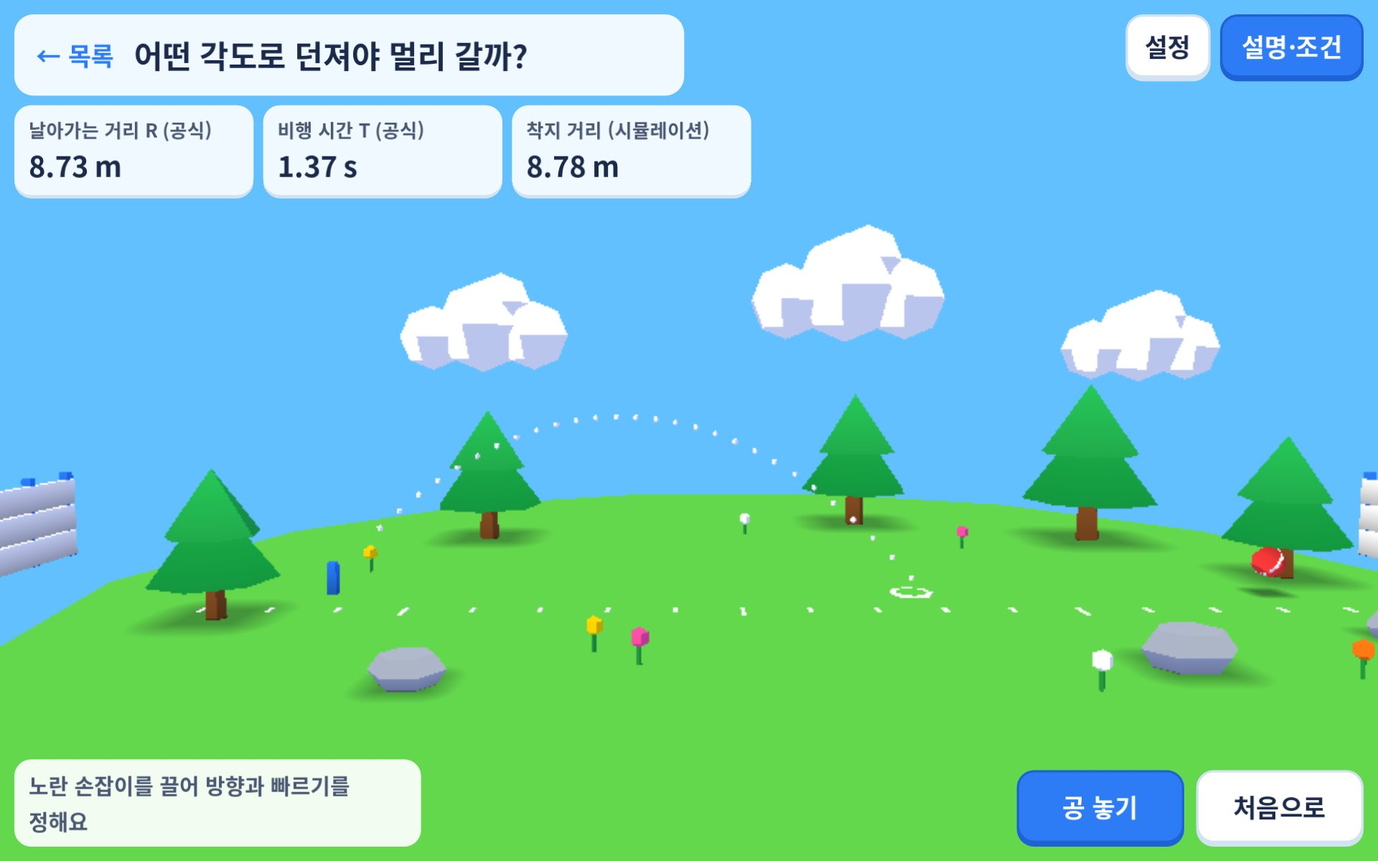
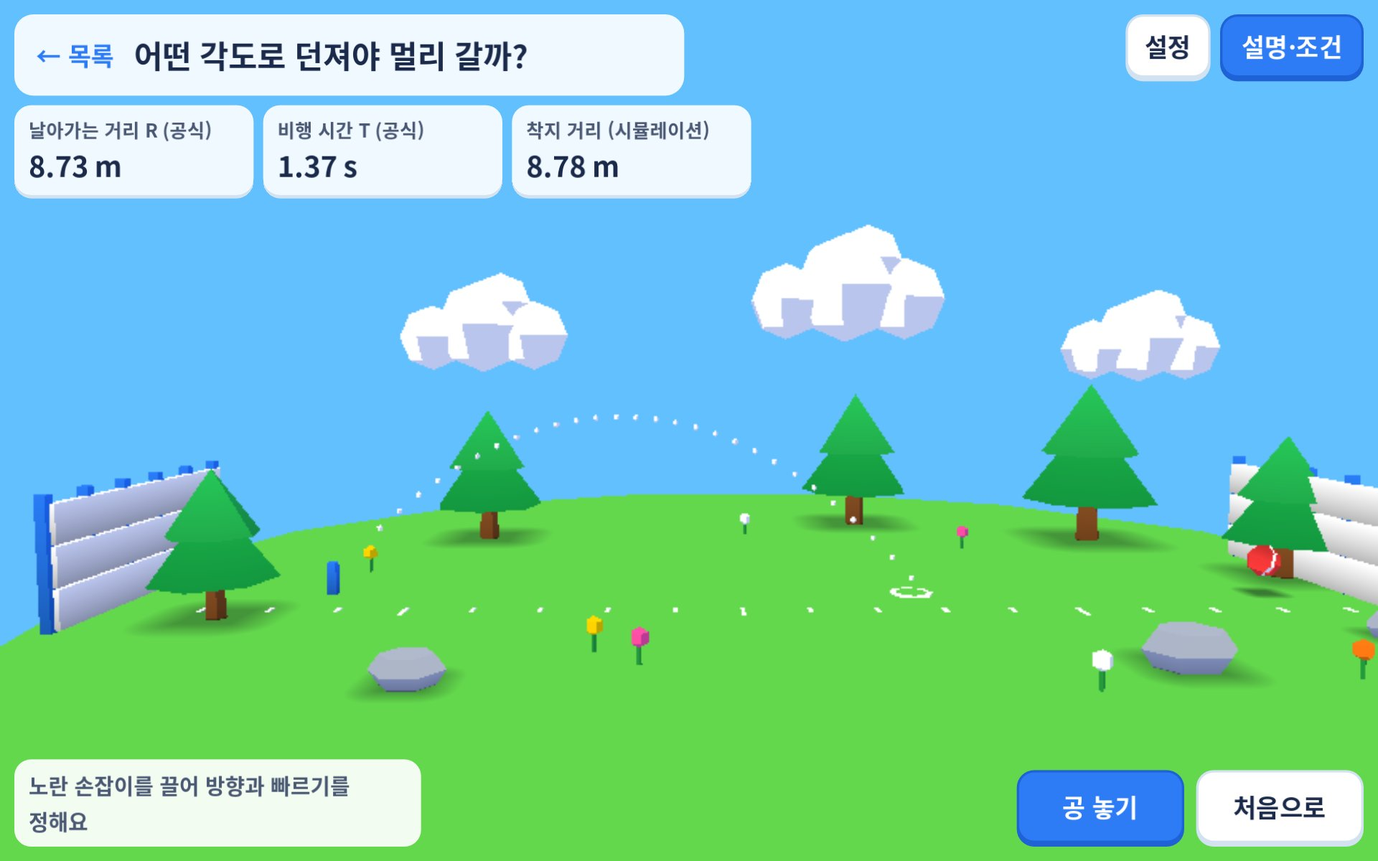
docs: 울타리 새 자리·높이 1.8 m 근거, 재촬영, 시점 확인 (Phase 1 Task 4f)

Changed region(s): [[0.0, 0.5242, 0.1562, 0.74], [0.875, 0.5242, 1.0, 0.7092]]

diff --git a/apps/lab3d/README.md b/apps/lab3d/README.md
@@ -81,7 +81,7 @@ apps/lab3d/
 | 도르래 (`pulley`) | 같은 실험(`pulley`) | 공식 모델 구동(`kinematic_model`, `PulleyLabDriver`) | 짐을 받치는 줄(1·2·4줄, 웹 버튼. 잡은 채 바꾸면 처음으로와 같이 다시 시작), 짐 질량(1–20 kg, 기본 20 kg) | 빨간 손잡이를 아래로 당김(5 cm 눈금, 한 번 최대 2.6 m. 손잡이 이동 = 당긴 줄, 짐은 그 1/n): 놓으면 멈추개가 짐을 잡고 손잡이는 위로(손 바꿔 당기기), 짐 최고 2.4 m | 상태, n, 짐 무게, 필요한 힘 mg/n, 내가 당기는 힘, 당긴 줄 d당김, 올라간 높이 d당김/n, 1 m에 당기는 줄 n m, 내가 한 일 F·d당김, 위치 에너지 mg·d상승 | 줄 수에 따른 필요한 힘(당기는 힘·필요한 힘, 잡은 동안 10초 창) | 4e |
 | 빗면 마찰 (`incline-friction`) | 3D 전용(`app_labs`) | 접촉 힘 보정 | 빗면 각도, 표면 재질 | 상자를 빗면 위 출발 위치로 끌기 | 2a 그대로 | 놓은 뒤 이동 거리 | 2a·2b |
 
-- 균일장 실험은 `UniformFieldLab`(`experiments/uniform_field/`)를 잇는다. 중력 선택지는 공의 `gravity_scale`(= g / 프로젝트 중력 9.81)로 엔진 장을 바꾸고, 보정기에는 64비트 g를 준다. 공은 `FormulaBody` + `UniformFieldCorrector`(놓는 첫 스텝 도약 출발, 엔진 접촉 보고로 엔진 착지 기록), 반지름 0.25 m, 감쇠 0. 공은 자유롭게 돌고(Task 4f) 엔진 마찰·반발은 0이다. 날아가는 동안은 엔진이 움직이고(돌지 않음), 공식 착지 시각부터는 64비트 공 모델(`RollingContact`: 균일한 구 I = 2/5 m r²)이 튕김(e v, 1 m/s 미만이면 멈춤), 튕김의 쿨롱 마찰 충격(μ 0.6), 미끄러짐 → v = ωr 구름, 구름 저항(μ_r 0.05, a = μ_r g) → 정지를 닫힌 식으로 진행하고 엔진 공을 매 스텝 그 자리·회전에 둔다(바닥에 들어가지 않음). 던지기 섬 양끝(x 12.0 / −12.5 m 면)의 울타리(높이 1.5 m, 시각 메시만)에 굴러온 공은 모델이 e v로 되튕기고 면 마찰로 살짝 뜨게 한 뒤 섬 위에서 멈춘다(기본·가장 먼 던지기 시험). 날아가던 공이 울타리를 꼭대기보다 낮게 지나가면(달의 긴 던지기) 맞은 공식 시각에 되튀어 섬에 남고 상태는 "울타리에 맞음"(공식 거리·비행 시간 그대로, 표시 시간은 맞은 시각에서 멈춤, 시뮬레이션 착지 거리 "—"), 위로 넘으면 기존 "섬 밖으로 날아감"이다. 공에는 흰 띠가 있어 구르는 것이 보인다(메시는 바디의 자식). 측정 착지 스텝은 공식 접촉 뒤 첫 샘플이다. 규칙·측정: [공식 보정 4절 Task 4f](docs/formula-correction.md#실험-구현-task-4f-공-회전구름). 착지는 바닥에 닿을 때만이다(출발 접촉은 놓은 뒤 첫 스텝 보고, 공끼리는 충돌하지 않는 층). 공식 착지 시간이 0인 공(장 안에서 바닥에 놓음, 바닥에서 수평 던지기)은 놓는 순간 착지다(공식 시계 0 = 착지 시간). 자유 낙하는 한 공의 낙하선 위·아래에 다른 공을 놓을 수 없다. 규칙: [공식 보정 4절 실험 구현](docs/formula-correction.md#실험-구현-task-4a-균일장).
+- 균일장 실험은 `UniformFieldLab`(`experiments/uniform_field/`)를 잇는다. 중력 선택지는 공의 `gravity_scale`(= g / 프로젝트 중력 9.81)로 엔진 장을 바꾸고, 보정기에는 64비트 g를 준다. 공은 `FormulaBody` + `UniformFieldCorrector`(놓는 첫 스텝 도약 출발, 엔진 접촉 보고로 엔진 착지 기록), 반지름 0.25 m, 감쇠 0. 공은 자유롭게 돌고(Task 4f) 엔진 마찰·반발은 0이다. 날아가는 동안은 엔진이 움직이고(돌지 않음), 공식 착지 시각부터는 64비트 공 모델(`RollingContact`: 균일한 구 I = 2/5 m r²)이 튕김(e v, 1 m/s 미만이면 멈춤), 튕김의 쿨롱 마찰 충격(μ 0.6), 미끄러짐 → v = ωr 구름, 구름 저항(μ_r 0.05, a = μ_r g) → 정지를 닫힌 식으로 진행하고 엔진 공을 매 스텝 그 자리·회전에 둔다(바닥에 들어가지 않음). 던지기 섬 양끝(x 9.5 / −9.3 m 면, 섬 윗면 안)의 울타리(높이 1.8 m, 폭 6 / 4.4 m, 시각 메시만)에 굴러온 공은 모델이 e v로 되튕기고 면 마찰로 살짝 뜨게 한 뒤 섬 위에서 멈춘다(기본·가장 먼 던지기 시험). 날아가던 공이 울타리를 꼭대기보다 낮게 지나가면(달의 긴 던지기) 맞은 공식 시각에 되튀어 섬에 남고 상태는 "울타리에 맞음"(공식 거리·비행 시간 그대로, 표시 시간은 맞은 시각에서 멈춤, 시뮬레이션 착지 거리 "—"), 위로 넘으면 기존 "섬 밖으로 날아감"이다. 공에는 흰 띠가 있어 구르는 것이 보인다(메시는 바디의 자식). 측정 착지 스텝은 공식 접촉 뒤 첫 샘플이다. 규칙·측정: [공식 보정 4절 Task 4f](docs/formula-correction.md#실험-구현-task-4f-공-회전구름). 착지는 바닥에 닿을 때만이다(출발 접촉은 놓은 뒤 첫 스텝 보고, 공끼리는 충돌하지 않는 층). 공식 착지 시간이 0인 공(장 안에서 바닥에 놓음, 바닥에서 수평 던지기)은 놓는 순간 착지다(공식 시계 0 = 착지 시간). 자유 낙하는 한 공의 낙하선 위·아래에 다른 공을 놓을 수 없다. 규칙: [공식 보정 4절 실험 구현](docs/formula-correction.md#실험-구현-task-4a-균일장).
 - 화면 수치는 모두 `PhysicsLaws`다: 놓은 뒤 시계(고정 스텝)를 공식 착지 시간(`landing_time`)에서 멈추고 그 시각의 위치·속도·에너지를 보여 준다. "착지됨" 상태도 공식이 정한다: 시계가 공식 착지 시간에 닿았거나(반올림 여유 1e-9 s) 그 전에 엔진이 착지를 보고하면 착지이고, 그때부터 공식 착지 값(t = T, h = 0)을 보여 준다. 엔진 값은 "시뮬레이션"이 붙은 착지 시각·착지 거리와 그래프 점뿐이다. 측정 착지는 엔진 착지 보고의 스텝이고, 보고가 없으면(바닥 몇 mm 위 낙하, 바닥에서 짧은 튐처럼 출발 바닥 접촉이 끝나지 않는 경우) 공식 착지 시각에 가장 가까운 스텝의 엔진 값(그 스텝 시각, 그 스텝의 엔진 x)이다. 그래프 시뮬레이션 점은 공식 착지 시각까지만 더한다.
 - 무중력: 자유 낙하는 공이 제자리에 떠 있고("무중력: 떠 있어요", 바닥까지 "닿지 않아요"), 던지기는 곧게 날아가 섬(x 12.5 m, 높이 30 m)을 벗어나면 멈추고 숨긴다("섬 밖으로 날아감"). 달처럼 멀리 가는 던지기도 같다(공식 거리·시간은 그대로 표시).
 - 놓기 연출: 대기 중인 공 아래 노란 받침판이 놓을 때 아래로 젖혀지며 사라지고 공이 늘어난다(`stretch`). 처음으로·조건 변경 때 공이 다시 나타난다(`pop`). 착지는 ArtJuice 자동 반응(납작·먼지·카메라)이다.
@@ -283,7 +283,7 @@ npm test                           # 루트: TS 테스트 + apps/lab3d/tools/{in
 | 충돌 실험 (Task 4c) | `tools/collision-lab-vectors.test.ts` → `tests/collision_lab_vectors.json`, `tests/collision_lab_checks.gd`(`run_tests.gd`가 부름) | 웹 `PhysicsSimulation`(world.ts 충돌)에 충돌 프리셋 감쇠·정지·벽 규칙(웹 소스의 상수를 읽어 확인)을 60 Hz로 적용한 7가지(웹 시작, 같은 질량 e = 1·고무, 점토·금속, 나무, 1 m/s 미만, 따라잡기): 모델 위치·속도·운동량(6스텝마다)·첫 충돌 값·충돌 횟수 = TS(1e-9, 측정 7e-15). 엔진 공 중심 = TS(≤ 1e-4 m, 측정 2.4e-7), 매 스텝 엔진 = 모델(위치 3.8e-7 m, 스텝 속도 2.8e-5 m/s), 패널 = TS, 운동량 보존·에너지 비증가, 같은 질량 e = 1 속도 교환, 재질별 e·1 m/s 미만 e = 0. 조건 변경, 아트는 보이는 것만(공은 엔진에서 아무것도 안 닿음, 바디는 돌지 않음), 3D 노드 16개 이하(14), 처음 연 화면의 첫 충돌(TS 94스텝), 부호 있는 운동량 그래프, 리뷰 반영(부호 그래프 눈금 +max/0/−max, 벽에 붙은 B의 미세 재접촉은 연출 반복 없음, 10초 넘는 29초 실행에서 엔진 위치·스텝 속도·운동량 = 공식, 느린 공 화살표 최소 길이, 화면 열기·상태 복원 때 재시작 1회, 최대 bump에서 공 바닥이 레일 아래로 안 내려감, 화살표 캐시 윗면 색, 손잡이 공용 생성), 실제 입력 경로(공 끌기 0.5 m, 손잡이 0.5 m/s·미리보기·슬라이더 동기화, 그 뒤 충돌 = 공식, 구르는 중 집으면 멈춤), 측정 데모. 돌연변이 7종(감쇠 끔, 밀어내기 끔, 충돌 결과 0.1% 변경, 벽 반발 무시, 구동 한 스텝 늦음, 손잡이 눈금 0.25 m/s, 엔진 접촉 켬) 실패 확인 |
 | 용수철·부력·궤도 실험 (Task 4d) | `tools/{spring,buoyancy,orbit}-lab-vectors.test.ts` → `tests/*_lab_vectors.json`, `tests/{spring,buoyancy,orbit}_lab_checks.gd`(`run_tests.gd`가 부름) | TS 코어(`AnchoredSpringLaw`, `BuoyancyRegionLaw`, `PointGravityField`, `OrbitChallenge`)로 만든 사례(용수철 6·부력 7·궤도 8)와 모델·엔진 바디·패널을 스텝 단위로 대조(모델 ≤ 4e-15 상대, 엔진 ≤ 5e-7 m, 스텝 속도 ≤ 5.2e-5 m/s, 60초 실행 포함), 용수철 주기 2π√(m/k)·에너지 보존, 부력 ρ/ρ물 깊이·바닥·중성, 궤도 케플러 주기·에너지·탈출 속력·충돌 위치, 조작·끌기 뒤 출발 |
 | 진자·지렛대·도르래 실험 (Task 4e) | `tools/{constraints,rotation,pulley}-lab-vectors.test.ts` → `tests/*_lab_vectors.json`, `tests/{constraints,rotation,pulley}_lab_checks.gd`(`run_tests.gd`가 부름) | TS 코어(`PendulumModel`, `LeverChallenge`, `PulleyAdvantageChallenge`, `torque`, `centripetalForce`, `work`)로 만든 사례(진자 7·지렛대 6 × 누름 51·도르래 5)와 모델·엔진 바디·패널을 스텝 단위로 대조(모델 ≤ 7e-14 상대, 엔진 ≤ 2.4e-7 m·막대 1.1e-7 rad, 진자 스텝 속도 2.9e-5 m/s, 60초 실행 포함). 엔진 바디에서: 진자 길이 일정·소진폭 주기 2π√(L/g)·대진폭 주기·에너지 보존과 e^(−bt) 감쇠, 지렛대가 기우는 첫 누름 = F₁r₁ ≥ F₂r₂, 도르래 줄 길이 일정·당김 = n × 상승·F·d = mgh. 처음 연 화면의 첫 동작, 실제 입력 경로(원 위 끌기, 손잡이 누르기·당기기, 짐·받침점 끌기와 막힘, 손 바꿔 당기기·취소), 측정 데모. 돌연변이 17종 실패 확인 |
-| 공 회전·튕김·구름 (Task 4f) | `tests/ball_spin_checks.gd`(`run_tests.gd`가 부름), `rolling_speed` parity는 `formula_vectors.json` | 시험 안의 독립 오라클(튕김 사슬·쿨롱 충격·미끄러짐·구름 저항·정지 닫힌 식)과 엔진 공을 매 스텝 대조: 던지기 8가지 위치 2.1e-5 m·회전각 3.3e-6 rad·바닥 아래 0, 충돌 시각·속도·정지 시각 1e-9, 자유 낙하 3가지(최고점 e²h, 튕김 시각) 6.5e-6 m, 착지 스텝 = ⌈T/dt⌉·착지 반응 1회. 비행 중 ω 0(주어진 ω₀ 일정), 메시 = 바디(흰 띠), 자유 낙하 무회전·무이동, 충돌 메시 회전 = 이동/r, 울타리: 굴러온 공의 충돌 시각·속도·되튐·뜀 = 닫힌 식, 기본·가장 먼 던지기가 섬 위 정지, 날아가다 맞는 공(맞는 시각·속도 = 닫힌 식, 그때까지 비행 = 공식, 패널, 달 스캔 통과 0), 울타리 없을 때 정지 자리 보고, 공·라벨·그래프 색 일치, 받침판 흰색·회색. 돌연변이 16종 실패 확인 |
+| 공 회전·튕김·구름 (Task 4f) | `tests/ball_spin_checks.gd`(`run_tests.gd`가 부름), `rolling_speed` parity는 `formula_vectors.json` | 시험 안의 독립 오라클(튕김 사슬·쿨롱 충격·미끄러짐·구름 저항·정지 닫힌 식)과 엔진 공을 매 스텝 대조: 던지기 8가지 위치 2.1e-5 m·회전각 3.3e-6 rad·바닥 아래 0, 충돌 시각·속도·정지 시각 1e-9, 자유 낙하 3가지(최고점 e²h, 튕김 시각) 6.5e-6 m, 착지 스텝 = ⌈T/dt⌉·착지 반응 1회. 비행 중 ω 0(주어진 ω₀ 일정), 메시 = 바디(흰 띠), 자유 낙하 무회전·무이동, 충돌 메시 회전 = 이동/r, 울타리: 굴러온 공의 충돌 시각·속도·되튐·뜀 = 닫힌 식, 기본·가장 먼 던지기가 섬 위 정지, 날아가다 맞는 공(맞는 시각·속도 = 닫힌 식, 그때까지 비행 = 공식, 패널, 달 스캔 통과 0), 울타리 없을 때 정지 자리 보고, 공·라벨·그래프 색 일치, 받침판 흰색·회색. 돌연변이 18종 실패 확인, 울타리 꼭짓점이 섬 윗면 안 |
 | 새 출발 위치의 표시 수치 | `tools/incline-vectors.test.ts` → `tests/incline_vectors.json` `runs`, `manipulation_checks.gd` | 재질·각도·출발 위치 4가지(1–6 m)에서 s(t) ±1%, 표시 `이동 거리`가 출발점에서 빗면 끝까지 거리에서 멈춤, 공식 곡선이 그 거리에서 끝남, 상자가 빗면을 떠나는 시각이 TS 공식 √(2L/a)와 3 step 안 |
 
 - TS 공식을 바꾸면 vitest가 먼저 깨진다. `UPDATE_INCLINE_VECTORS=1 UPDATE_FORMULA_VECTORS=1 UPDATE_UNIFORM_VECTORS=1 UPDATE_FRICTION_VECTORS=1 UPDATE_COLLISION_VECTORS=1 UPDATE_SPRING_VECTORS=1 UPDATE_BUOYANCY_VECTORS=1 UPDATE_ORBIT_VECTORS=1 UPDATE_CONSTRAINTS_VECTORS=1 UPDATE_ROTATION_VECTORS=1 UPDATE_PULLEY_VECTORS=1 npx vitest run apps/lab3d`로 벡터를 다시 만든 뒤 Godot 테스트로 GDScript 쪽 불일치를 확인한다.

diff --git a/apps/lab3d/docs/formula-correction.md b/apps/lab3d/docs/formula-correction.md
@@ -222,12 +222,12 @@
 
 울타리가 없으면 기본 던지기(45°·9 m/s·0.5 m)는 마지막 튕김(3.26 s)이 x 11.31 m에서 끝나 4.546 m/s로 굴러가고(정지 거리 21.1 m) 섬 끝(12.5 m)을 넘는다. 튕기는 동안은 공중이라 구름 저항이 들지 않아 μ_r로는 막을 수 없다. 그래서 던지기 섬의 양끝(던지는 방향 x)에 울타리를 두었다.
 
-- 자리·크기: 공을 향한 면 x = 12.0 m(오른쪽)와 −12.5 m(왼쪽, 되튄 공이 발사대 뒤로 굴러갈 때), 높이 1.5 m, 폭 6 m(던지기는 z = 0 평면이라 옆 울타리는 두지 않음). 흰 판자 세 장과 파란 기둥(아트 디렉션: 구조 = 파랑, 표시 = 흰색), 메시 한 개. 엔진 바디는 없다.
+- 자리·크기: 공을 향한 면 x = 9.5 m(오른쪽)와 −9.3 m(왼쪽, 되튄 공이 발사대 뒤로 굴러갈 때), 높이 1.8 m, 폭 6 m·4.4 m(던지기는 z = 0 평면이라 옆 울타리는 두지 않음). 두 울타리 전체가 섬 윗면(중심 (0.5, −0.8) 둘레 외접 반지름 11 m 14각형) 안에 선다: 처음 자리(면 12.0 m, 폭 6 m)는 오른쪽 울타리가 섬 가장자리 밖 허공에 걸쳐 옮겼고, 시험이 모든 꼭짓점이 윗면 내접원(10.72 m) 안인지 본다(최대 10.49 m). 흰 판자 세 장과 파란 기둥(아트 디렉션: 구조 = 파랑, 표시 = 흰색), 메시 한 개. 엔진 바디는 없다.
 - 물리: 착지 뒤 모델(`RollingContact.wall_x`·`wall_left_x`)이 맡는다. 공의 앞(뒤)이 면에 닿는 시각을 조각마다 닫힌 식으로 찾고(공중 등속, 미끄러짐·구름 등가속), 그때 공 바닥이 울타리 꼭대기보다 낮으면 충돌: 수직(면) 성분은 e v로 되튕기고(e = 공의 반발 0.6; 웹 `resolveWorldBounds`가 벽에서 v ×= −e(그 물체의 반발)를 쓰는 것과 같은 규칙이라 임계 속도 없음), 면을 따라(세로) 쿨롱 마찰 충격 |P| ≤ μ(1 + e)v(접점 미끄러짐 v_y + ω r을 끝내는 2/7 m|u|까지). 굴러온 공(윗돌기, ω = −v/r)은 이 충격으로 2/7 v만큼 위로 떠 살짝 뛰어 돌아온다(울타리 쪽 바닥 마찰은 그 순간 무시). 그 뒤는 바닥 규칙(튕김·미끄러짐·구름 저항)으로 멈춘다.
-- 높이 근거(스캔: 중력 3가지 × 각도 0–90° 15° × 빠르기 1–9 m/s × 높이 0–3 m 0.25 m × 출발 x 3곳 = 4641가지씩, 모델만 계산): 지구·목성에서는 어떤 던지기도 날아서 울타리 선에 닿지 않는다(비행 궤적은 울타리와 무관). 착지 뒤 튀어서 넘는 공은 높이 0.75 m에서 지구 6가지, 1.0 m 4가지, 1.2 m 2가지, 1.5 m 0가지라 1.5 m로 정했다(사용자가 말한 "낮은 울타리"보다는 높다: 공 지름의 3배).
-- 날아가는 공(사용자 결정 2026-10-23): 비행이 울타리 선(공 앞이 면에 닿는 x)을 꼭대기보다 낮게 지나가면 울타리에 맞는다. 맞는 시각은 닫힌 식 t = (면 − r − x₀)/vₓ(그 시각 바닥 높이 < 1.5 m, 공식 착지 전)이고, 그때까지 비행은 공식 그대로다(엔진 비행, 시험 1.1e-4 m: 달 9.5 s 비행의 float32 누적). 맞은 순간 모델이 넘겨받아 e v로 되튕기고 면 마찰 충격을 준 뒤 바닥 규칙으로 섬 위에 멈춘다. 상태 문구 "울타리에 맞음"(앱 코드의 상태 문구, 웹·공유 문구 무변경), 표시 시간·x·y·속도는 맞은 시각 값에서 멈추고 공식 거리 R·비행 시간 T는 그대로(바닥 높이까지의 공식), "착지 거리(시뮬레이션)"는 "—"(착지하지 않았음), 그래프 시뮬레이션 점은 맞은 시각까지. 꼭대기 위로 넘는 비행은 기존대로 섬 박스(x 12.5 m)를 넘으면 "섬 밖으로 날아감". 지구·목성은 날아서 울타리 선에 닿는 경우가 없고, 달 스캔(4641가지)에서 꼭대기보다 낮게 지나가는 160가지가 모두 맞고 섬 쪽에 남는다(통과 0). 착지 뒤 달에서 튀어 넘는 150가지는 여전히 넘는다(기존 규칙대로 섬 끝에서 멈추고 숨김).
+- 높이 근거(스캔: 중력 3가지 × 각도 0–90° 15° × 빠르기 1–9 m/s × 높이 0–3 m 0.25 m × 출발 x 3곳 = 4641가지씩, 모델만 계산): 지구·목성에서는 어떤 던지기도 날아서 울타리 선에 닿지 않는다(지구 가장 먼 착지 x 7.6 m < 9.25 m). 착지 뒤 튀어서 넘는 지구 공은 면 9.5 m에서 1.2 m 18가지, 1.5 m 6가지, 1.6 m 2가지, 1.7 m 1가지, 1.8 m 0가지라 1.8 m로 정했다(목성은 1.2 m부터 0). 섬 안에 두는 한 1.5 m로 0가지가 되는 자리가 없다(면 10.0 m 5가지, 10.5·10.7 m 3가지; 처음 자리 12.0 m에서는 0이었다). "낮은 울타리"보다 높다: 공 지름의 3.6배.
+- 날아가는 공(사용자 결정 2026-10-23): 비행이 울타리 선(공 앞이 면에 닿는 x)을 꼭대기보다 낮게 지나가면 울타리에 맞는다. 맞는 시각은 닫힌 식 t = (면 − r − x₀)/vₓ(그 시각 바닥 높이 < 1.5 m, 공식 착지 전)이고, 그때까지 비행은 공식 그대로다(엔진 비행, 시험 9.4e-5 m: 달 8.9 s 비행, 허용 2e-4 m는 긴 비행의 float32 누적 몫). 맞은 순간 모델이 넘겨받아 e v로 되튕기고 면 마찰 충격을 준 뒤 바닥 규칙으로 섬 위에 멈춘다. 상태 문구 "울타리에 맞음"(앱 코드의 상태 문구, 웹·공유 문구 무변경), 표시 시간·x·y·속도는 맞은 시각 값에서 멈추고 공식 거리 R·비행 시간 T는 그대로(바닥 높이까지의 공식), "착지 거리(시뮬레이션)"는 "—"(착지하지 않았음), 그래프 시뮬레이션 점은 맞은 시각까지. 꼭대기 위로 넘는 비행은 기존대로 섬 박스(x 12.5 m)를 넘으면 "섬 밖으로 날아감". 지구·목성은 날아서 울타리 선에 닿는 경우가 없고, 달 스캔(4641가지)에서 꼭대기보다 낮게 지나가는 221가지가 모두 맞고 섬 쪽에 남는다(통과 0). 착지 뒤 달에서 튀어 넘는 경우(1.5 m 기준 124가지, 1.8 m는 그보다 적음: 따로 세지 않음)는 여전히 넘는다(기존 규칙대로 섬 끝에서 멈추고 숨김).
 - 상태: "섬 밖으로 날아감"은 날아가는 중 꼭대기 위로 넘어 섬 박스를 벗어날 때, "울타리에 맞음"은 비행이 울타리에 맞을 때다. 착지한 공은 울타리에 막혀 섬에 남는다(달의 넘는 경우만 기존 "착지 뒤 섬 끝에서 멈춤").
-- 시험(`check_fences`, 닫힌 식): 바닥에서 x −3 m, 9 m/s로 굴린 공이 미끄러짐(0.437 s) → 구름(μ_r)으로 울타리에 2.3461 s, 5.4921 m/s에 닿음(모델 = 닫힌 식 1e-9), 3.2952 m/s로 되튀고 1.5692 m/s로 떠(0.125 m) 날아가는 동안 엔진 공 = 포물선(4.7e-7 m). 기본(45°·9·0.5 m)은 울타리 1번 맞고 x 8.31 m에 6.96 s에 멈춤, 가장 먼 던지기(45°·9 m/s·3 m, x −3 m)는 x 2.59 m(8.88 s), 0°·9 m/s·3 m는 x 2.97 m(7.81 s) — 모두 섬 위(두 울타리 사이)에 정지. 울타리 없는 정지 자리 보고(`check_where_throws_stop`)도 남겼다. 날아가다 맞는 경우(`check_fence_in_flight`): 달 75°·8 m/s·x −8 m·0.25 m가 9.5385 s(닫힌 식과 1e-9)에 2.0706 m/s(= vₓ)로 맞고 x −7.38 m에 멈춤, 패널 = 위 규칙, 달 스캔 통과 0. 돌연변이: 울타리 반발 0.5, 면 마찰 없음, 물리 면을 메시보다 0.25 m 밖, 꼭대기 0.3 m, 비행 중 울타리 무시, 맞은 뒤 표시 시간 안 멈춤 — 모두 실패.
+- 시험(`check_fences`, 닫힌 식): 바닥에서 x −3 m, 9 m/s로 굴린 공이 미끄러짐(0.437 s) → 구름(μ_r)으로 울타리에 1.8998 s, 5.7110 m/s에 닿음(모델 = 닫힌 식 1e-9), 3.4266 m/s로 되튀고 1.6317 m/s로 떠(0.136 m) 날아가는 동안 엔진 공 = 포물선(4.7e-7 m). 기본(45°·9·0.5 m)은 울타리 1번 맞고 x 5.53 m에 6.48 s에 멈춤, 가장 먼 던지기(45°·9 m/s·3 m, x −3 m)는 x 3.67 m(6.85 s), 0°·9 m/s·3 m는 x −2.69 m(8.57 s) — 모두 섬 위(두 울타리 사이)에 정지. 울타리 없는 정지 자리 보고(`check_where_throws_stop`)도 남겼다. 날아가다 맞는 경우(`check_fence_in_flight`): 달 75°·7.5 m/s·x −8 m·1 m가 8.8865 s(닫힌 식과 1e-9)에 1.9411 m/s(= vₓ), 바닥 높이 1.41 m에서 맞고 x −4.42 m에 멈춤(맞기 전 비행 = 공식 9.4e-5 m), 패널 = 위 규칙, 달 스캔 통과 0. 돌연변이: 울타리 반발 0.5, 면 마찰 없음, 물리 면을 메시보다 0.25 m 밖, 꼭대기 0.3 m, 비행 중 울타리 무시, 맞은 뒤 표시 시간 안 멈춤, 울타리 폭 9.5 m(섬 밖), 높이 1.5 m(가장 먼 던지기가 넘음) — 모두 실패.
 
 **웹과 다르게 정한 것**
 

diff --git a/docs/3d-phase1/README.md b/docs/3d-phase1/README.md
@@ -259,4 +259,6 @@ Notion Story·Task와 GitHub Issue는 발행하지 않는다. 이 문서가 Phas
 - 2026-10-23: Task 4f 사용자 결정 — 섬 가장자리 울타리, μ_r 0.05 유지. 던지기 섬 양끝(공을 향한 면 x 12.0 / −12.5 m)에 흰 판자·파란 기둥 울타리(높이 1.5 m, 엔진 바디 없음). 착지 뒤 공 모델이 울타리 면 충돌을 닫힌 식으로 찾아 e v(공의 반발 0.6, 웹 벽 규칙)로 되튕기고 면을 따라 쿨롱 마찰 충격(굴러온 공은 2/7 v로 살짝 뜀)을 준 뒤 바닥 규칙으로 멈춘다. 높이는 4641가지 × 3 중력 스캔에서 지구·목성 공이 착지 뒤 넘지 않는 가장 낮은 값(1.2 m면 지구 2가지가 넘음). 비행 궤적은 불변(지구·목성은 날아서 울타리 선에 닿지 않음). 시험: 굴러온 공 충돌 2.3461 s·5.4921 m/s = 닫힌 식, 되튐 뜀 포물선 4.7e-7 m, 기본·가장 먼 던지기가 섬 위에 정지(x 8.31·2.59·2.97 m). 돌연변이 4종 추가 실패 확인. 기기 측정 **미측정**(기기 사용 금지).
   - 사용자 판단 필요: 울타리 높이 1.5 m(공 지름 3배, "낮은 울타리"보다 높음 — 낮추면 지구에서 튀어 넘는 조건이 생김: 1.2 m 2가지, 1.0 m 4가지), 달의 긴 던지기 160/4641가지가 울타리를 낮게 통과해 보이고 150가지는 튀어 넘음(달 전용 처리 여부).
 - 2026-10-23: Task 4f 사용자 결정 — 날아가던 공도 울타리 선을 꼭대기보다 낮게 지나가면 울타리에 맞아 되튐(e 0.6·면 마찰, 바닥 규칙으로 정지, 섬에 남음). 상태 "울타리에 맞음"(앱 전용), 공식 거리·비행 시간 그대로, 표시 시간·위치는 맞은 시각, 시뮬레이션 착지 거리 "—". 맞기 전 비행 = 공식(달 9.5 s 비행 1.1e-4 m), 맞는 시각·속도 = 닫힌 식(1e-9), 달 스캔 160가지 교차 모두 맞음(통과 0), 위로 넘으면 기존 "섬 밖으로 날아감". 돌연변이 2종 추가 실패 확인. SM-P200 재허가 뒤 던지기 low 90초 × 1회 59.81 fps, 스크린샷(흰 띠 공, 울타리, 되튄 뒤 멈춘 공, 자유 낙하 새 색·흰 받침판). [결과 6절](../../spikes/bench/results/phase1-ball-spin/README.md)
-  - 남은 사용자 판단: 울타리 높이 1.5 m("낮은 울타리"보다 높음), 달에서 착지 뒤 튀어 넘는 150/4641가지, 오른쪽 울타리가 섬 가장자리에 붙어 있어 일부 시점에서 섬 밖으로 걸쳐 보임(스크린샷 `projectile-fence-follow.jpg`).
+  - 남은 사용자 판단: 울타리 높이(아래 수정으로 1.8 m), 달에서 착지 뒤 튀어 넘는 경우.
+- 2026-10-23: Task 4f 검토 반영 — 오른쪽 울타리가 섬 가장자리 밖 허공에 걸쳐 보여(섬 윗면: 중심 (0.5, −0.8) 둘레 외접 11 m 14각형) 두 울타리를 섬 안으로 옮김(면 9.5 / −9.3 m, 폭 6 / 4.4 m), 시험이 울타리 메시 꼭짓점이 모두 윗면 내접원 안(10.49 ≤ 10.72 m)인지 확인. 면이 가까워져 1.5 m에서는 지구 6가지가 착지 뒤 튀어 넘어(섬 안 어느 자리도 1.5 m로 0가지가 안 됨) 높이를 1.8 m로(0가지). 날아가다 맞는 시험 경우는 달 75°·7.5 m/s·1 m로 바꿈, 달 스캔 221가지 교차 통과 0. 넓은 정면 시점이 멀어져 찍힌 일(앞 스크린샷 일부): 헤드리스 16초 재현·재촬영 14장 모두 시점 불변, 앱에서 시점을 바꾸는 길은 손가락·휠·핀치 입력뿐이라 촬영 중 기기 입력으로 보고 코드 버그 아님(확정은 못 함). SM-P200 던지기 정면·따라가기 스크린샷 다시 찍음(fps는 울타리 자리·높이만 바뀌어 재측정 생략).
+  - 사용자 판단 필요: 울타리 높이 1.8 m(공 지름 3.6배, "낮은 울타리"와 다름 — 1.5 m로 두면 지구 6/4641가지가 튀어 넘음).

diff --git a/spikes/bench/results/phase1-ball-spin/README.md b/spikes/bench/results/phase1-ball-spin/README.md
@@ -77,4 +77,5 @@
 
 - 원본: `fence/lab3d-low-PJ-1.{jsonl,device.jsonl,perf.jsonl}`, `fence/gpu-clock-low.log`.
 - 날아가다 울타리에 맞는 장면(달 긴 던지기)은 발사 높이·자리를 실행 인자로 정할 수 없어 찍지 않았다(헤드리스 시험만).
-- 보인 점: 오른쪽 울타리(x 12.0–12.15 m)가 섬 가장자리에 붙어 따라가기 시점에서 섬 밖으로 걸쳐 보인다. 넓은 시점 `projectile-rested-fences-front.jpg` 일부 프레임은 따라가기가 아닌데도 시점이 멀어져 있다(원인 확인 안 함).
+- 처음 찍은 울타리 장면에서 오른쪽 울타리(면 x 12.0 m)가 섬 밖 허공에 걸쳐 보여 울타리를 섬 안으로 옮겼다(커밋 `edb4901`: 면 9.5 / −9.3 m, 폭 6 / 4.4 m, 높이 1.8 m). 그 빌드로 2026-10-23 14:00경 던지기 화면을 다시 찍어 `projectile-rested-fences-front.jpg`(정면, 섬 위에 멈춘 공과 양끝 울타리), `projectile-fence-follow.jpg`(따라가기, 울타리 앞), `projectile-rested-band-follow.jpg`, `projectile-band-rolling-front.jpg`를 바꿨다. 자유 낙하 두 장은 울타리와 무관해 그대로. fps는 울타리 자리·높이만 바뀌어 재측정하지 않았다(위 표는 `c313e43`). 기기 설정 전후 같음, 끝난 뒤 adb 서버 종료.
+- 첫 촬영의 정면 연속 사진 일부가 멀리서 내려다본 시점으로 찍힌 일: 헤드리스에서 같은 던지기 16초 동안 시점(거리 14.5 m, 고도 −4°)이 그대로였고, 재촬영 14장도 그대로였다. 앱이 시점을 바꾸는 길은 두 손가락 끌기·핀치·마우스 휠·드래그 입력뿐이라 촬영 중 기기에 들어간 입력으로 보며 코드 버그로 보지 않았다(입력 기록을 남기지 않아 확정은 못 함).
